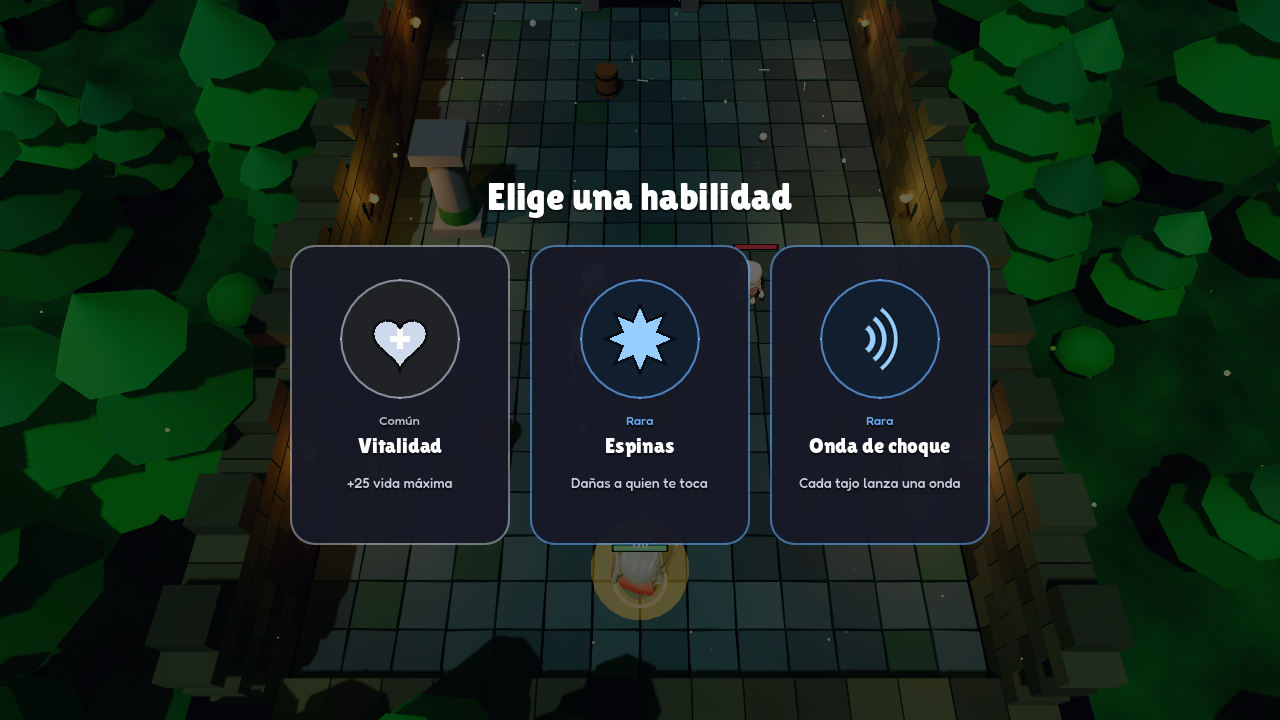
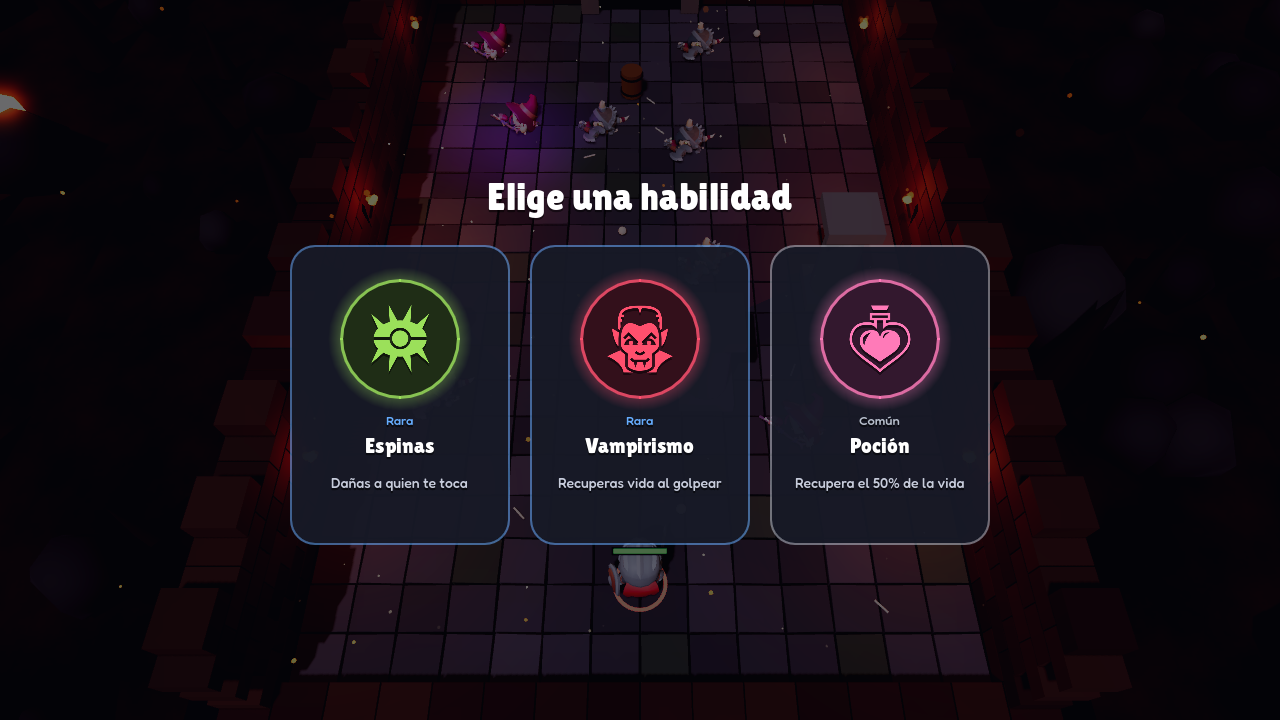
Godot: menú de mejoras (personaje y arma), iconos a color, más dificultad y sonido discreto
- Pantalla de mejoras con pestañas Personaje (9 mejoras permanentes) y Arma (nivel, maestría y doble técnica)
- Iconos con color propio en cartas, menú y HUD
- Más enemigos y más fuertes por sala
- Solo suenan monedas e interfaz; música más baja

Claude-Session: https://claude.ai/code/session_01SHZQ2xWc7XXzBchsRjrgW9

diff --git a/godot/README.md b/godot/README.md
@@ -61,8 +61,13 @@ El nigromante **Malakar** ha despertado y su ejército de esqueletos invade el r
 - Las **salas se generan al azar**: columnas, cajas y barriles que bloquean el paso y los disparos.
 - **Cartas de mejora** con rareza (común, rara, épica y legendaria), iconos dibujados y animaciones.
 - **Pantalla de inicio** con el logo y textos de historia con efecto máquina de escribir.
-- **Mejora permanente de armas** con las monedas. El progreso se guarda.
-- **Sonido generado por código:** efectos para cada ataque, golpe, explosión, moneda y habilidad, más música ambiental tranquila y distinta en cada zona. La música y los efectos se pueden quitar por separado desde la pausa.
+- **Pantalla de MEJORAS** (estilo roguelike) con dos pestañas:
+  - **Personaje** (sirve para todos los héroes): Vitalidad, Fuerza, Destreza, Agilidad, Precisión, Armadura, Regeneración, Suerte y Codicia.
+  - **Arma** (de cada héroe): nivel de arma, Maestría (la habilidad principal empieza a más nivel) y Doble técnica (segunda habilidad desde el inicio).
+- **Dificultad más alta:** más enemigos, más vida y daño en cada sala; para avanzar hay que ir mejorando.
+
+![Mejoras](../docs/godot-mejoras.png)
+- **Sonido discreto:** solo monedas e interfaz, con música ambiental baja y distinta en cada zona. Se puede quitar desde la pausa.
 - **Efectos:**
   - números de daño (críticos en amarillo);
   - temblor de cámara y retroceso de los enemigos al golpearlos;
